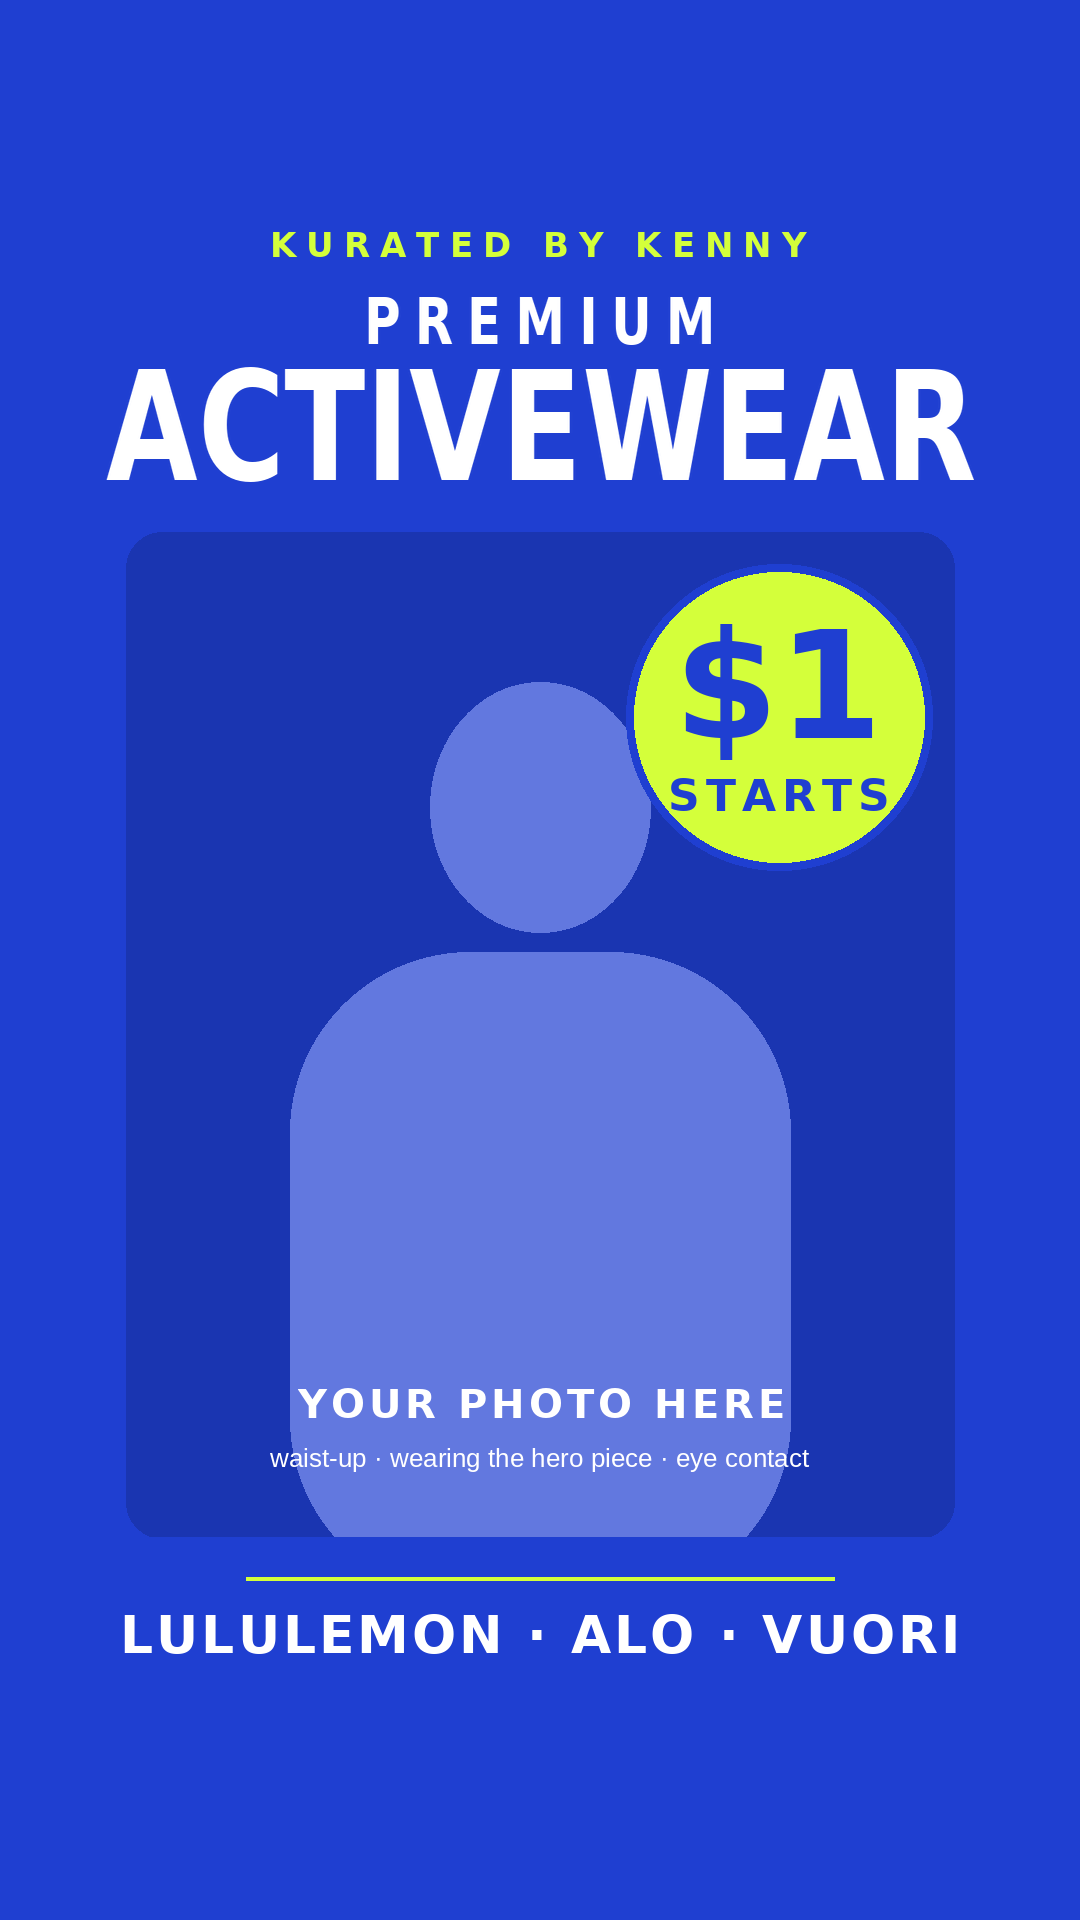
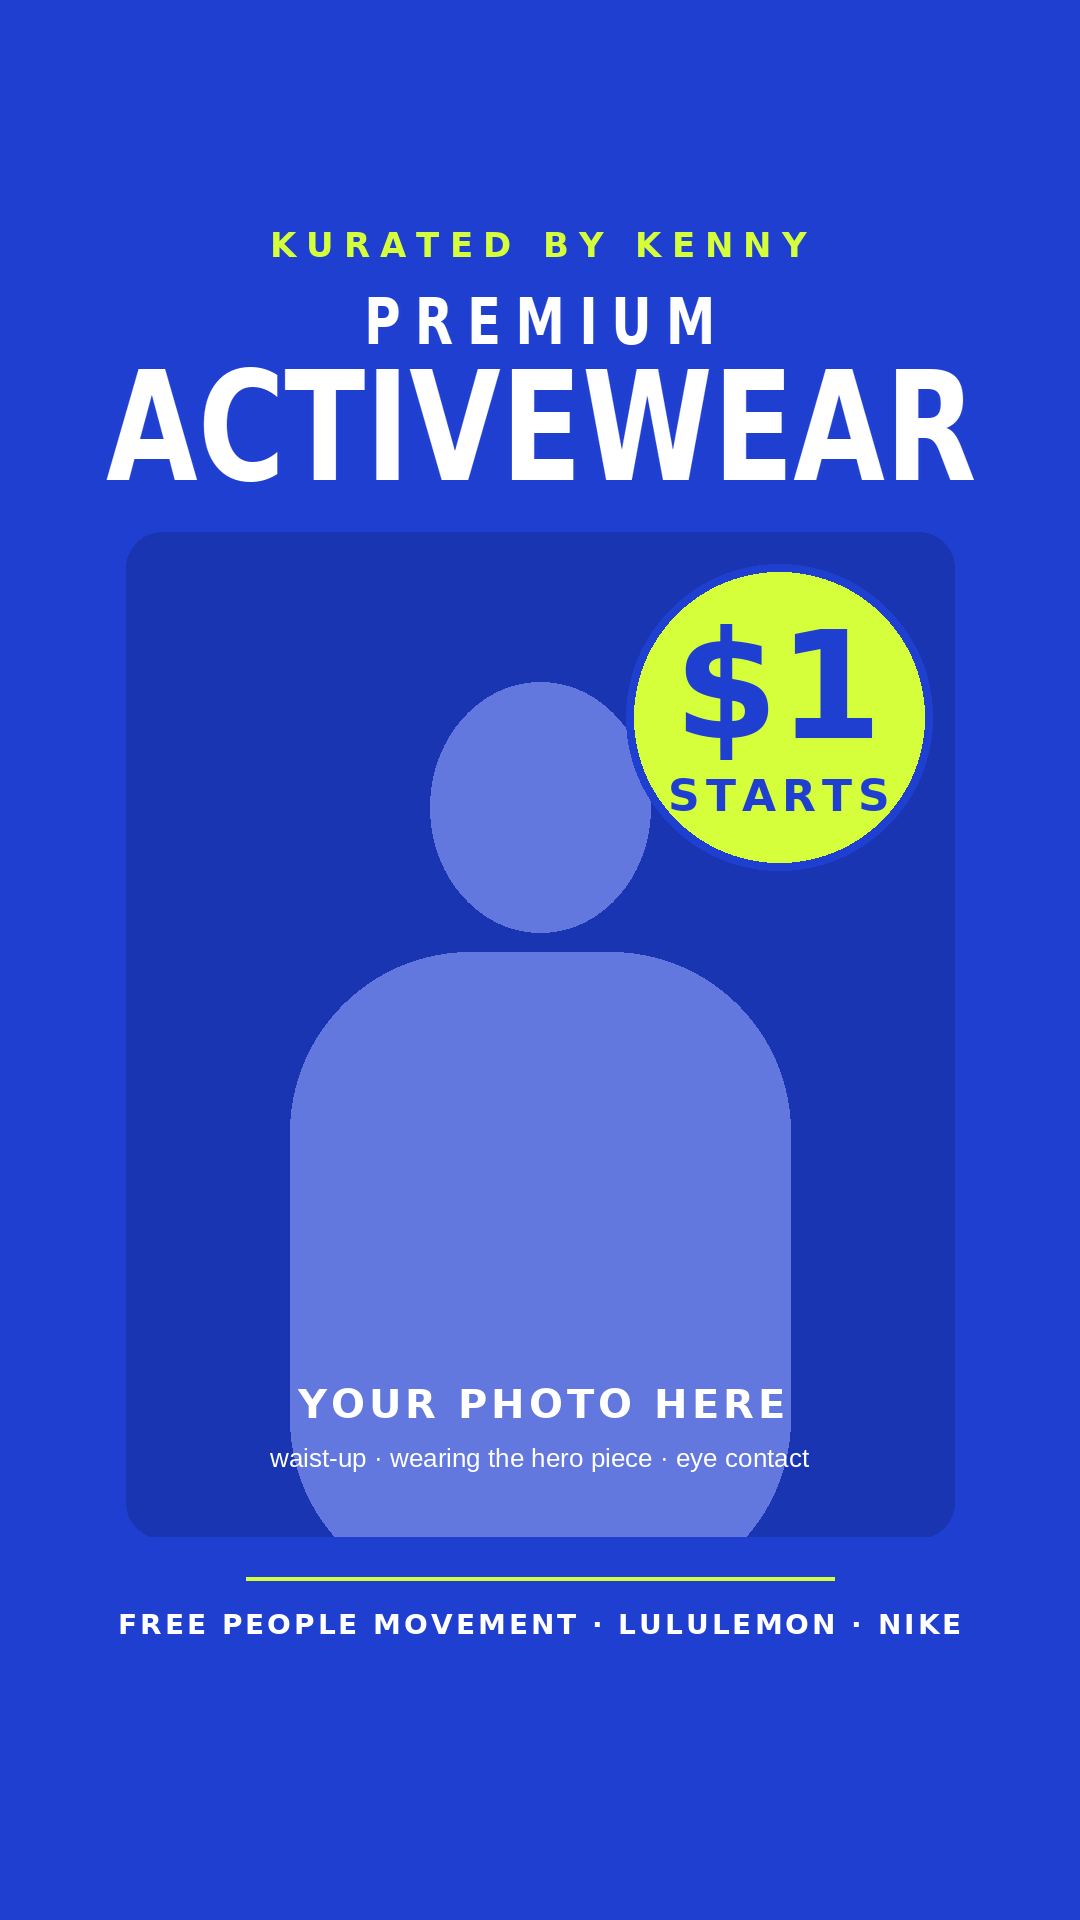
Fall palette + new brand lines for Whatnot covers; support per-show photos (kept out of git)
Claude-Session: https://claude.ai/code/session_01VEEmx2cCtEf4yPiDYGkTqa

Changed region(s): [[0.0917, 0.8438, 0.8861, 0.875]]

diff --git a/02-branding/whatnot-covers/make_covers.py b/02-branding/whatnot-covers/make_covers.py
@@ -2,17 +2,17 @@
 
 Run:  python3 make_covers.py
 Makes a PNG per show plus a preview sheet showing both at phone-feed size
-with the safe zone marked. The grey figure is a placeholder: swap in a
-waist-up photo of you wearing the hero piece (in Canva, or edit PHOTO below).
+with the safe zone marked. With no photo, a grey figure stands in (the
+template). Put a photo in photos/ and set "photo" + "crop" on a show to get
+the finished cover in final/ (photos/ and final/ are kept out of git).
 """
 from pathlib import Path
-from PIL import Image, ImageDraw, ImageFont
+from PIL import Image, ImageDraw, ImageEnhance, ImageFont
 
 HERE = Path(__file__).parent
 W, H = 1080, 1920
 # Keep everything important inside this box: Whatnot crops the edges.
 SAFE = (86, 192, 994, 1728)
-PHOTO = None  # e.g. HERE / "me-activewear.jpg"
 
 F = "/usr/share/fonts/truetype/"
 SERIF_B = F + "liberation/LiberationSerif-Bold.ttf"
@@ -21,16 +21,19 @@ SANS = F + "liberation/LiberationSans-Regular.ttf"
 
 SHOWS = {
     "premium-contemporary": dict(
-        bg="#1F2E4A", ink="#FFFFFF", accent="#F6D776", badge_ink="#1F2E4A",
-        photo_bg="#1A273F", figure="#62718A",
-        head_font=SERIF_B, head_scale=1.0, top="PREMIUM", main="CONTEMPORARY",
-        brands="ARITZIA · FREE PEOPLE · REFORMATION", brand_font=F + "liberation/LiberationSans-Bold.ttf",
+        # fall: chocolate + cream + pumpkin
+        bg="#3B2418", ink="#FFF3E0", accent="#E07A2E", badge_ink="#3B2418",
+        photo_bg="#321F15", figure="#6E5446",
+        head_font=SERIF_B, head_scale=1.0, top="PREMIUM FALL", main="CONTEMPORARY",
+        brands="FREE PEOPLE · POLO RALPH LAUREN · DENIM",
+        photo=HERE / "photos" / "contemporary-fall.jpg", crop=(215, 440, 865, 1270), warm=0.22, brand_font=F + "liberation/LiberationSans-Bold.ttf",
     ),
     "premium-activewear": dict(
         bg="#1F3FD1", ink="#FFFFFF", accent="#D4FF3A", badge_ink="#1F3FD1",
         photo_bg="#1A35B1", figure="#6278DF",
         head_font=SANS_B, head_scale=0.78, top="PREMIUM", main="ACTIVEWEAR",
-        brands="LULULEMON · ALO · VUORI", brand_font=SANS_B,
+        brands="FREE PEOPLE MOVEMENT · LULULEMON · NIKE", brand_font=SANS_B,
+        photo=HERE / "photos" / "activewear.jpg", crop=(110, 560, 1010, 1610),
     ),
 }
 
@@ -71,13 +74,30 @@ def paste_center(canvas, im, y):
 def draw_photo(canvas, s, box):
     x0, y0, x1, y1 = box
     d = ImageDraw.Draw(canvas)
-    if PHOTO and Path(PHOTO).exists():
-        ph = Image.open(PHOTO).convert("RGBA")
+    photo = s.get("photo")
+    if photo and Path(photo).exists():
+        ph = Image.open(photo).convert("RGBA")
         bw, bh = x1 - x0, y1 - y0
+        if s.get("crop"):
+            # grow the crop box to the photo slot's shape, centered on it
+            cx0, cy0, cx1, cy1 = s["crop"]
+            cw, chh = cx1 - cx0, cy1 - cy0
+            if cw / chh > bw / bh:
+                chh = cw * bh / bw
+            else:
+                cw = chh * bw / bh
+            mx, my = (cx0 + cx1) / 2, (cy0 + cy1) / 2
+            ph = ph.crop((int(mx - cw / 2), int(my - chh / 2),
+                          int(mx + cw / 2), int(my + chh / 2)))
         r = max(bw / ph.width, bh / ph.height)
         ph = ph.resize((int(ph.width * r), int(ph.height * r)), Image.LANCZOS)
         ph = ph.crop(((ph.width - bw) // 2, (ph.height - bh) // 2,
                       (ph.width - bw) // 2 + bw, (ph.height - bh) // 2 + bh))
+        if s.get("warm"):
+            # fall grade: a little less green/blue, amber wash
+            ph = ImageEnhance.Color(ph).enhance(0.85)
+            amber = Image.new("RGBA", ph.size, (214, 120, 50, 255))
+            ph = Image.blend(ph, amber, s["warm"])
         mask = Image.new("L", ph.size, 0)
         ImageDraw.Draw(mask).rounded_rectangle((0, 0, bw, bh), 36, fill=255)
         canvas.paste(ph, (x0, y0), mask)
@@ -121,12 +141,15 @@ def build(name, s, out=None):
     ly = sy1 - 150
     d.line((sx0 + 160, ly, sx1 - 160, ly), fill=s["accent"], width=4)
     paste_center(c, fit_text(s["brands"], s["brand_font"], inner, 52, s["ink"], spacing=3), ly + 36)
-    out = out or HERE / f"{name}.png"
+    if out is None:
+        final = s.get("photo") and Path(s["photo"]).exists()
+        out = HERE / "final" / f"{name}.png" if final else HERE / f"{name}.png"
+        out.parent.mkdir(exist_ok=True)
     c.convert("RGB").save(out, optimize=True)
     return c
 
 
-def preview(covers):
+def preview(covers, out="preview-feed-size.png"):
     """Both covers at feed-card size (270x480) with the safe zone dashed."""
     tw, th, pad = 270, 480, 40
     sheet = Image.new("RGB", (pad * 3 + tw * 2, th + pad * 2 + 50), "#FFFFFF")
@@ -144,10 +167,14 @@ def preview(covers):
                 q = (x + a[0] + (b[0] - a[0]) * (j + 1) / n, pad + a[1] + (b[1] - a[1]) * (j + 1) / n)
                 d.line((p, q), fill="#FF3D8B", width=2)
         d.text((x, pad + th + 12), name, fill="#111111", font=ImageFont.truetype(SANS, 18))
-    sheet.save(HERE / "preview-feed-size.png", optimize=True)
+    sheet.save(HERE / out, optimize=True)
 
 
 if __name__ == "__main__":
-    covers = {n: build(n, s) for n, s in SHOWS.items()}
-    preview(covers)
+    templates = {n: build(n, dict(s, photo=None)) for n, s in SHOWS.items()}
+    preview(templates)
+    finals = {n: build(n, s) for n, s in SHOWS.items() if s.get("photo") and Path(s["photo"]).exists()}
+    if finals:
+        preview(finals, "final/preview-feed-size.png")
+    covers = dict(templates, **finals)
     print("done:", ", ".join(covers))

diff --git a/02-branding/thumbnail-maker.md b/02-branding/thumbnail-maker.md
@@ -33,22 +33,24 @@ Top to bottom, all inside the safe zone:
 4. `$1 STARTS`: a round badge by your shoulder
 5. A thin accent line, then 2–3 brand names in caps
 
-### Premium Contemporary: "quiet luxury"
-- Background: navy, soft window light. Shoot against a plain light wall and put the navy behind you in Canva.
-- Colors: navy `#1F2E4A` · white `#FFFFFF` (headline, brands) · butter yellow `#F6D776` (logo + $1 badge, with navy text)
+### Premium Contemporary: fall
+- Background: chocolate brown, with a warm amber tone on the photo so it reads as fall
+- Colors: chocolate `#3B2418` · cream `#FFF3E0` (headline, brands) · pumpkin `#E07A2E` (logo + $1 badge, with chocolate text)
 - Fonts: elegant serif headline (Canva: Playfair Display or Bodoni), clean bold sans for brands
-- Text: `PREMIUM CONTEMPORARY` · `$1 STARTS` · `ARITZIA · FREE PEOPLE · REFORMATION`
+- Text: `PREMIUM FALL CONTEMPORARY` · `$1 STARTS` · `FREE PEOPLE · POLO RALPH LAUREN · DENIM`
 - Outfit: one elevated piece, like a knit set, slip dress, or blazer + tailored trousers
 
 ### Premium Activewear: bold and high-energy
 - Background: cobalt blue, bright even light
 - Colors: cobalt `#1F3FD1` · white `#FFFFFF` (headline, brands) · neon lime `#D4FF3A` (logo + $1 badge, with cobalt text)
 - Fonts: heavy condensed sans (Canva: Anton, Bebas Neue, or League Gothic)
-- Text: `PREMIUM ACTIVEWEAR` · `$1 STARTS` · `LULULEMON · ALO · VUORI` (add `NWT` if new with tags)
+- Text: `PREMIUM ACTIVEWEAR` · `$1 STARTS` · `FREE PEOPLE MOVEMENT · LULULEMON · NIKE` (add `NWT` if new with tags)
 - Outfit: a matching set (Align, Define, Alo) in a color that pops against cobalt (white, black, pink, lime). Avoid blue sets.
 
 ## Templates
-- Main cover photo: `whatnot-covers/premium-contemporary.png`, `whatnot-covers/premium-activewear.png`
+- Main cover photo (blank templates): `whatnot-covers/premium-contemporary.png`, `whatnot-covers/premium-activewear.png`
+- Finished covers with your photos: `whatnot-covers/final/`. These and the photos in
+  `whatnot-covers/photos/` stay on this computer only and are kept out of git, because the repo is public.
 - Feed-size check: `whatnot-covers/preview-feed-size.png`
 - Other color options considered: `whatnot-covers/options-contemporary.png`, `whatnot-covers/options-activewear.png`
 - Bundle / lot photo:
@@ -70,8 +72,8 @@ Top to bottom, all inside the safe zone:
 
 ## Tools used
 - Canva (free): rebuild the layout from the mockups with the fonts above
-- `whatnot-covers/make_covers.py`: regenerates the mockups. Set `PHOTO` to a photo
-  file to drop your own picture in.
+- `whatnot-covers/make_covers.py`: regenerates the covers. Put a photo in `photos/` and set its
+  `photo` + `crop` on the show in `SHOWS`.
 
 ## Sources
 - [Atlas: Whatnot Thumbnail Design Guide](https://www.atlasmktg.us/blog/whatnot-thumbnail-design-guide)

diff --git a/02-branding/brand-ideas-planning.md b/02-branding/brand-ideas-planning.md
@@ -3,14 +3,14 @@
 ## Brand basics
 - Shop names: KennyShop / Kurated by Kenny
 - Vibe / aesthetic: curated, premium brands at $1 starts. Two show lines:
-  - Premium Contemporary: quiet luxury (navy + white + butter yellow, serif headline)
+  - Premium Contemporary: fall (chocolate + cream + pumpkin, serif headline)
   - Premium Activewear: bold, sporty (cobalt + white + neon lime, heavy block font)
-- Brand colors: deep blue + white + one bright accent on both, so the two shows look related.
-  Contemporary: navy `#1F2E4A` + butter yellow `#F6D776`.
-  Activewear: cobalt `#1F3FD1` + neon lime `#D4FF3A`.
+- Brand colors: a deep background + light text + one bright accent on both covers.
+  Contemporary (fall): chocolate `#3B2418` + cream `#FFF3E0` + pumpkin `#E07A2E`.
+  Activewear: cobalt `#1F3FD1` + white + neon lime `#D4FF3A`.
 - Logo: `KURATED BY KENNY`, spaced-out caps in the accent color, top of every cover
-- Who I'm selling to: Whatnot buyers hunting Aritzia / Free People / Reformation and
-  Lululemon / Alo / Vuori deals
+- Who I'm selling to: Whatnot buyers hunting Free People / Polo Ralph Lauren / denim and
+  Free People Movement / Lululemon / Nike deals
 
 ## Ideas
 -
